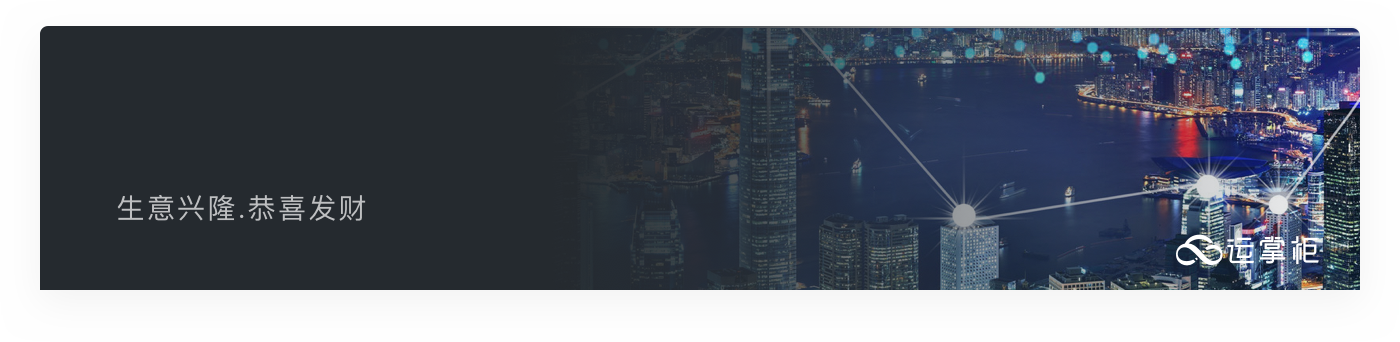
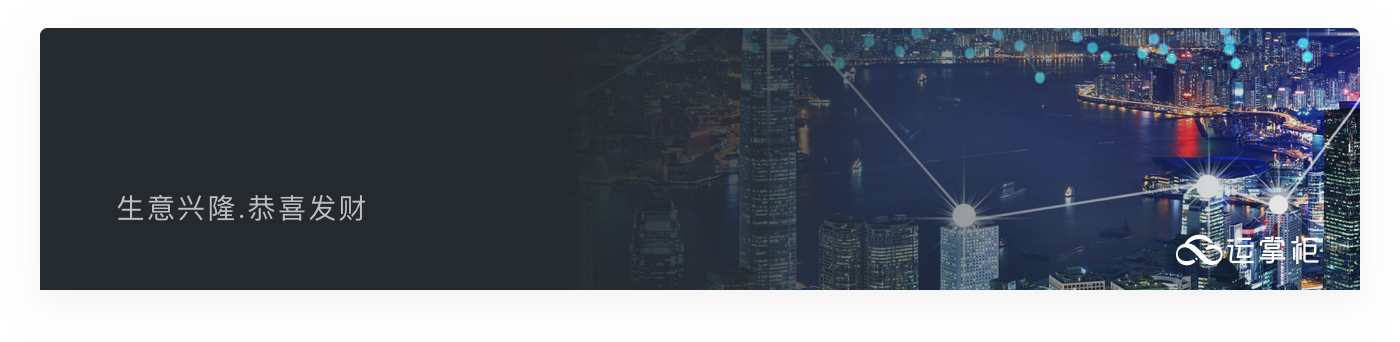
更换系统升级背景图片；

Changed region(s): [[0.0307, 0.0585, 0.9214, 0.0877]]

diff --git a/src/views/home/dialogs/upgrade.vue b/src/views/home/dialogs/upgrade.vue
@@ -68,7 +68,7 @@ export default {
     position absolute
     left -31px
     right 0
-    top -14px
+    top -15px
     bottom 0
     z-index 0
   &__title-text
